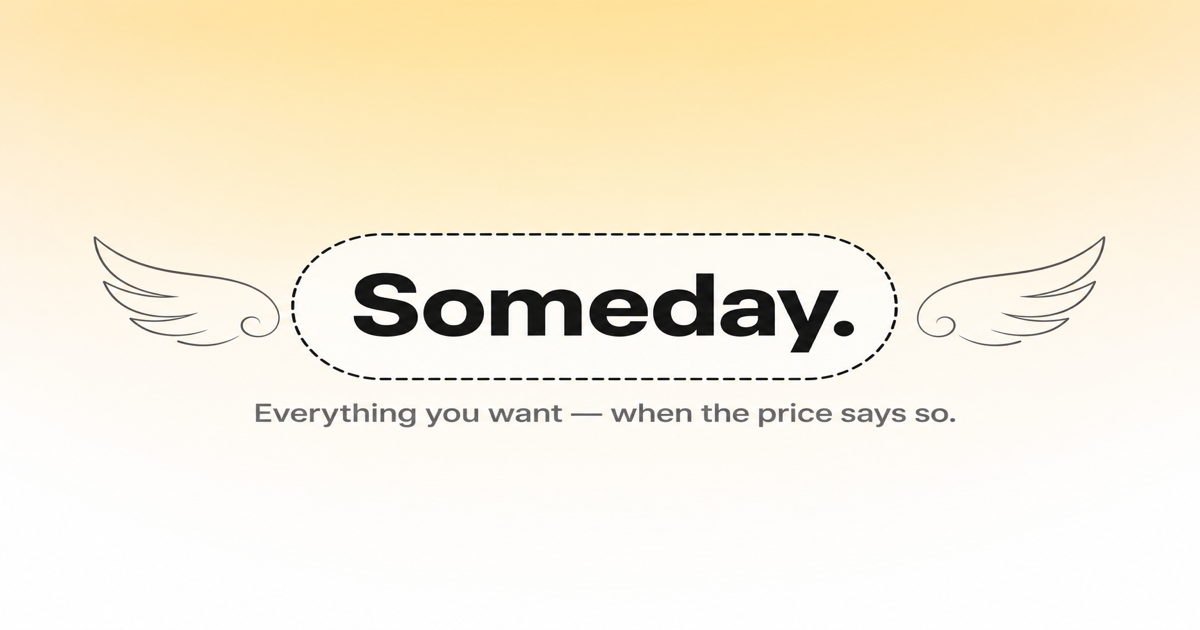
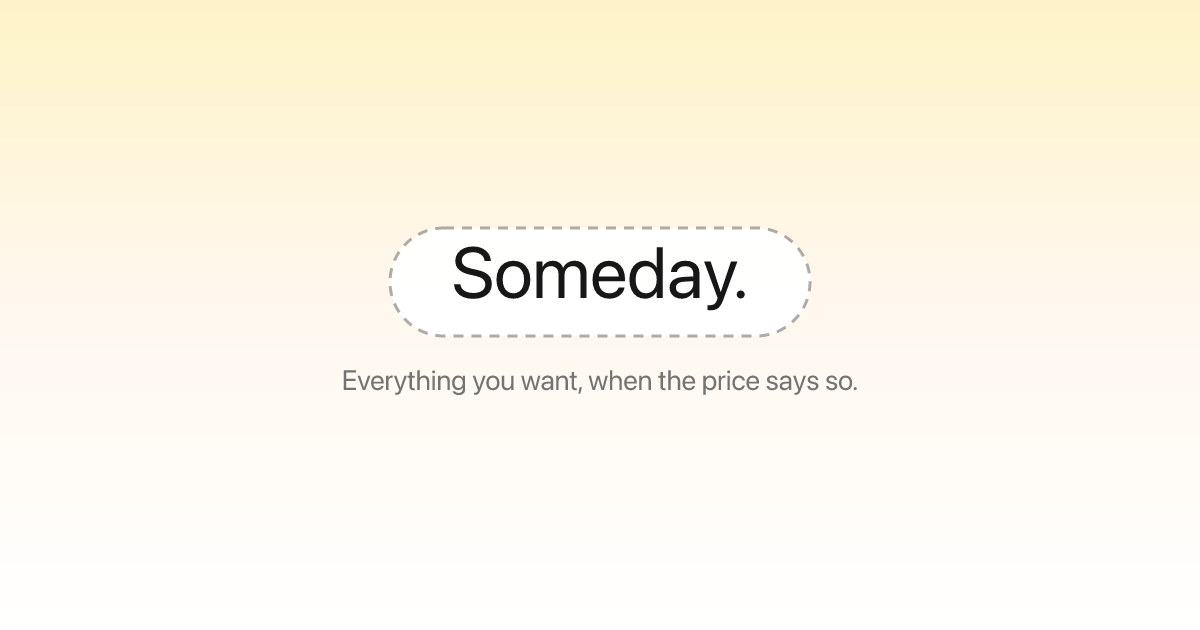
fix: remove wing flourishes from BrandMark and OG image

diff --git a/frontend/src/components/brand/BrandMark.tsx b/frontend/src/components/brand/BrandMark.tsx
@@ -5,7 +5,6 @@ type BrandMarkSize = 'hero' | 'nav' | 'compact'
 interface BrandMarkProps {
   /** `hero` for sign-in splash; `nav` for header; `compact` for in-app empty states. */
   size?: BrandMarkSize
-  showWings?: boolean
   className?: string
 }
 
@@ -21,63 +20,22 @@ const TEXT_CLASS: Record<BrandMarkSize, string> = {
   compact: 'text-lg',
 }
 
-function WingFlourish({
-  side,
-  size,
-}: {
-  side: 'left' | 'right'
-  size: 'hero' | 'compact'
-}) {
-  return (
-    <svg
-      aria-hidden
-      viewBox="0 0 96 56"
-      className={cn(
-        'pointer-events-none absolute top-1/2 hidden -translate-y-1/2 text-foreground/40 sm:block',
-        size === 'hero' ? 'h-10 w-20' : 'h-6 w-12',
-        side === 'left' ? '-scale-x-100' : undefined,
-        side === 'left'
-          ? size === 'hero'
-            ? '-left-24'
-            : '-left-14'
-          : size === 'hero'
-            ? '-right-24'
-            : '-right-14',
-      )}
-      fill="none"
-      stroke="currentColor"
-      strokeWidth="1.5"
-      strokeLinecap="round"
-    >
-      <path d="M4 30 Q 22 12, 40 22 T 78 16" />
-      <path d="M2 40 Q 22 48, 42 38" />
-      <path d="M14 28 Q 28 22, 44 26" />
-      <circle cx="82" cy="14" r="1.5" fill="currentColor" />
-    </svg>
-  )
-}
-
-export function BrandMark({ size = 'hero', showWings, className }: BrandMarkProps) {
-  const wingsVisible = showWings ?? size === 'hero'
-  const wingSize = size === 'nav' ? 'compact' : size
+export function BrandMark({ size = 'hero', className }: BrandMarkProps) {
   const labelClass = cn('font-semibold tracking-tight text-foreground', TEXT_CLASS[size])
 
   return (
-    <div className={cn('relative inline-block', className)}>
-      {wingsVisible ? <WingFlourish side="left" size={wingSize} /> : null}
-      <div
-        className={cn(
-          'rounded-full border-2 border-dashed border-foreground/35 bg-background/95 shadow-sm backdrop-blur-sm',
-          PILL_CLASS[size],
-        )}
-      >
-        {size === 'hero' ? (
-          <h1 className={labelClass}>Someday.</h1>
-        ) : (
-          <span className={labelClass}>Someday.</span>
-        )}
-      </div>
-      {wingsVisible ? <WingFlourish side="right" size={wingSize} /> : null}
+    <div
+      className={cn(
+        'inline-block rounded-full border-2 border-dashed border-foreground/35 bg-background/95 shadow-sm backdrop-blur-sm',
+        PILL_CLASS[size],
+        className,
+      )}
+    >
+      {size === 'hero' ? (
+        <h1 className={labelClass}>Someday.</h1>
+      ) : (
+        <span className={labelClass}>Someday.</span>
+      )}
     </div>
   )
 }

diff --git a/frontend/src/test/site-meta.test.ts b/frontend/src/test/site-meta.test.ts
@@ -1,10 +1,14 @@
 import { readFileSync } from 'node:fs'
 import path from 'node:path'
-import { SITE_DESCRIPTION, SITE_NAME, SITE_ORIGIN } from '@/lib/copy'
+import { loginTaglines, SITE_DESCRIPTION, SITE_NAME, SITE_ORIGIN } from '@/lib/copy'
 
 const indexHtml = readFileSync(path.resolve(__dirname, '../../index.html'), 'utf8')
 const webManifest = readFileSync(
   path.resolve(__dirname, '../../public/site.webmanifest'),
+  'utf8',
+)
+const ogImageSvg = readFileSync(
+  path.resolve(__dirname, '../../public/og-image.svg'),
   'utf8',
 )
 
@@ -37,5 +41,10 @@ describe('index.html share meta', () => {
   it('keeps web manifest description aligned with copy.ts', () => {
     expect(webManifest).toContain(SITE_DESCRIPTION)
     expect(webManifest).not.toContain(EM_DASH)
+  })
+
+  it('keeps og-image.svg tagline aligned with login splash copy', () => {
+    expect(ogImageSvg).toContain(loginTaglines[0])
+    expect(ogImageSvg).not.toContain(EM_DASH)
   })
 })

diff --git a/frontend/src/test/brand-mark.test.tsx b/frontend/src/test/brand-mark.test.tsx
@@ -10,16 +10,22 @@ describe('BrandMark', () => {
   })
 
   it('renders compact size without a heading role', () => {
-    render(<BrandMark size="compact" showWings={false} />)
+    render(<BrandMark size="compact" />)
 
     expect(screen.queryByRole('heading')).not.toBeInTheDocument()
     expect(screen.getByText('Someday.')).toBeInTheDocument()
   })
 
-  it('renders nav size without wings for the header', () => {
+  it('renders nav size for the header', () => {
     render(<BrandMark size="nav" />)
 
     expect(screen.queryByRole('heading')).not.toBeInTheDocument()
     expect(screen.getByText('Someday.')).toBeInTheDocument()
+  })
+
+  it('renders the dashed pill only (no decorative svg flourishes)', () => {
+    const { container } = render(<BrandMark size="hero" />)
+
+    expect(container.querySelector('svg')).not.toBeInTheDocument()
   })
 })

diff --git a/frontend/src/components/products/EmptyState.tsx b/frontend/src/components/products/EmptyState.tsx
@@ -14,7 +14,7 @@ export function EmptyState({ title, description, action, showBrandMark = false }
     <div className="rounded-lg border border-dashed border-border px-6 py-12 text-center">
       {showBrandMark ? (
         <div className="mb-6 flex justify-center">
-          <BrandMark size="compact" showWings={false} />
+          <BrandMark size="compact" />
         </div>
       ) : null}
       <h2 className="text-lg font-semibold tracking-tight">{title}</h2>

diff --git a/MEMORY.md b/MEMORY.md
@@ -4,6 +4,16 @@ Chronological timeline of completed work, files changed, and known bugs/solution
 
 ---
 
+## [2026-06-15] BrandMark wing removal (splash + OG image)
+
+**What:** Removed optional wing SVG flourishes from **`BrandMark`** (sign-in splash, nav, empty state now share the same dashed pill). Regenerated `og-image.png` without wings; added `og-image.svg` as the editable source (regen: `npx @resvg/resvg-js-cli public/og-image.svg public/og-image.png` from `frontend/`). OG tagline aligned with `loginTaglines[0]` (comma, no em dash).
+
+**Files:** `frontend/src/components/brand/BrandMark.tsx`, `frontend/src/components/products/EmptyState.tsx`, `frontend/public/og-image.svg`, `frontend/public/og-image.png`, `frontend/src/test/brand-mark.test.tsx`, `frontend/src/test/site-meta.test.ts`, `docs/ROADMAP.md`, `MEMORY.md`.
+
+**Verification:** `npm run lint`; `npm run test:run` (brand-mark, site-meta).
+
+---
+
 ## [2026-06-15] Demo seed refresh timestamps (production fix)
 
 **What:** Demo seed had backdated `products.last_refresh_at` tied to `created_days_ago`, so the UI showed "last refreshed" weeks ago even though listings were scraped yesterday. Seed now sets `last_refresh_at` and `last_scraped_at` to ~1 day ago regardless of backdated `created_at`. Added `--refresh-timestamps` to update existing seeded rows in production (manifest or catalog-title scope; skips user-added products).

diff --git a/docs/ROADMAP.md b/docs/ROADMAP.md
@@ -920,6 +920,7 @@ Constraints:
 - ~~**T7.1** UI polish and accessibility~~ — typography-first lists, mobile tab bar, axe vitest, Playwright Mobile Chrome.
 - ~~**Sign-in splash redesign**~~ — warm gradient landing, dashed **Someday.** pill, desktop-only floating shopping stickers; compact `BrandMark` on empty dashboard; axe coverage for `/login`.
 - ~~**Brand assets & share meta**~~ — header `BrandMark` (`nav` size), favicon, Apple touch icon, 1200×630 OG image, Open Graph / Twitter tags; `copy.ts` site constants + `site-meta.test.ts` guards `index.html` drift.
+- ~~**BrandMark wing removal**~~ — dropped decorative wing flourishes from splash/header/empty state and regenerated wingless `og-image.png` (+ `og-image.svg` source); regression tests guard pill-only mark and OG tagline copy.
 - ~~**Condensed wishlist rows**~~ — two-line `ProductListRow` (title · brand, then price/trend/meta); compact trend labels; dashboard heading **Wishlist** via `DASHBOARD_TITLE` in `copy.ts` (PRD §5.3 U-VIEW-1/3).
 - ~~**User-facing copy em dash cleanup**~~ — replaced em dashes in taglines, share meta, search errors, and generic scraper label with plainer punctuation; regression tests guard `copy.ts`, `index.html`, and `/api/search` error bodies (PRD U-ADD-5).
 - ~~**T6.3** Cron schedules~~ — scrape `0 8 * * *` UTC, digest `0 14 * * *` UTC.